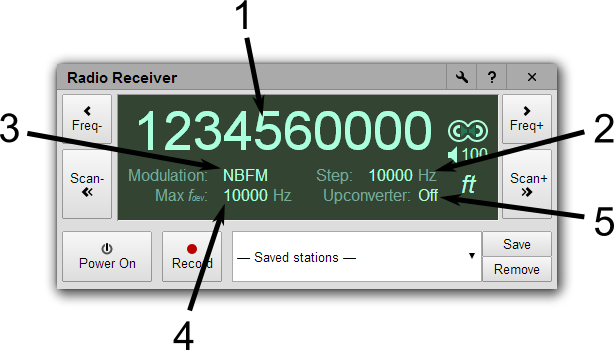
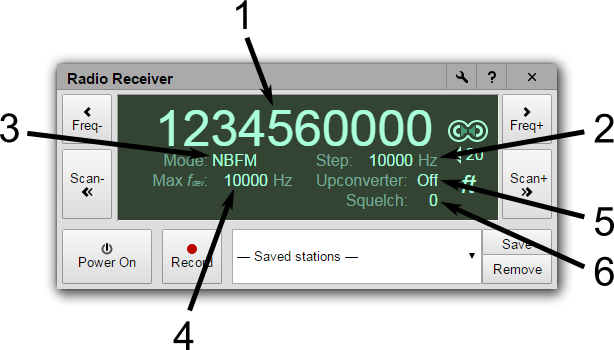
Update help page with new functions and settings.

diff --git a/extension/help.html b/extension/help.html
@@ -95,16 +95,18 @@ h1 {
 
 <p>The frequency display (<b>1</b>) shows the current frequency in Hertz. You can change frequency by clicking on it and typing the new frequency, using the scroll wheel, and using the &ldquo;Freq-&rdquo; and &ldquo;Freq+&rdquo; buttons. You can adjust the amount by which the frequency is adjusted by changing the value of the &ldquo;Step&rdquo; field (<b>2</b>).</p>
 
-<p>To change modulation scheme, click on the &ldquo;Modulation&rdquo; field (<b>3</b>). Each time you click you toggle between the available schemes. Currently these are Wideband FM (WBFM), Narrowband FM (NBFM), AM, Lower Sideband (LSB), and Upper Sideband (USB).</p>
+<p>To change modulation scheme, click on the &ldquo;Mode&rdquo; field (<b>3</b>). A drop-down list will appear that lets you choose among the available schemes. Currently these are Wideband FM (WBFM), Narrowband FM (NBFM), AM, Lower Sideband (LSB), and Upper Sideband (USB).</p>
 
 <p>Some modulation schemes have parameters that affect how they work; for example, NBFM has a maximum frequency deviation (Max <i>f<sub>dev</sub></i>), AM has a bandwidth, etc. You can set the value of that parameter in the corresponding field pointed to by <b>4</b>.</p>
 
 <p>If you have <a href="#settings">configured an upconverter in the settings window</a> you can enable and disable it here by clicking the &ldquo;Upconverter&rdquo; field (<b>5</b>).</p>
 
+<p>The &ldquo;Squelch&rdquo; setting (<b>6</b>) lets you monitor a frequency without having to hear static when nobody is transmitting. The squelch level is the minimum strength level the signal must reach before you can hear it; if it's set to 0, you'll hear everything.</p>
+
 <h1 id="settings">Settings</h1>
 <p>You can change a lot of settings by clicking on the &ldquo;wrench&rdquo; icon (<b>12</b>). There you can change several settings:</p>
 
-<div class="image"><img src="help-settings.png" width="395" height="333" title="Radio Receiver settings window"></div>
+<div class="image"><img src="help-settings.png" width="396" height="357" title="Radio Receiver settings window"></div>
 
 <ul>
 <li><b>Region</b>: Radios use different frequencies in different parts of the world. For best results, you should select the part of the world you live in.</li>
@@ -113,6 +115,7 @@ h1 {
 <li><b>Use upconverter for AM</b>: Enables or disables AM radio via an upconverter.</li>
 <li><b>Upconverter frequency</b>: This is the frequency by which the upconverter shifts all the signals up.</li>
 <li><b>Enable Free Tuning mode</b>: This lets you tune into radio signals outside of the FM and Medium Wave AM band.</li>
+<li><b>Manage your presets</b>: This opens a window where you can export and import preset stations.</li>
 </ul>
 
 <h1 id="shortcuts">Keyboard shortcuts</h1>
